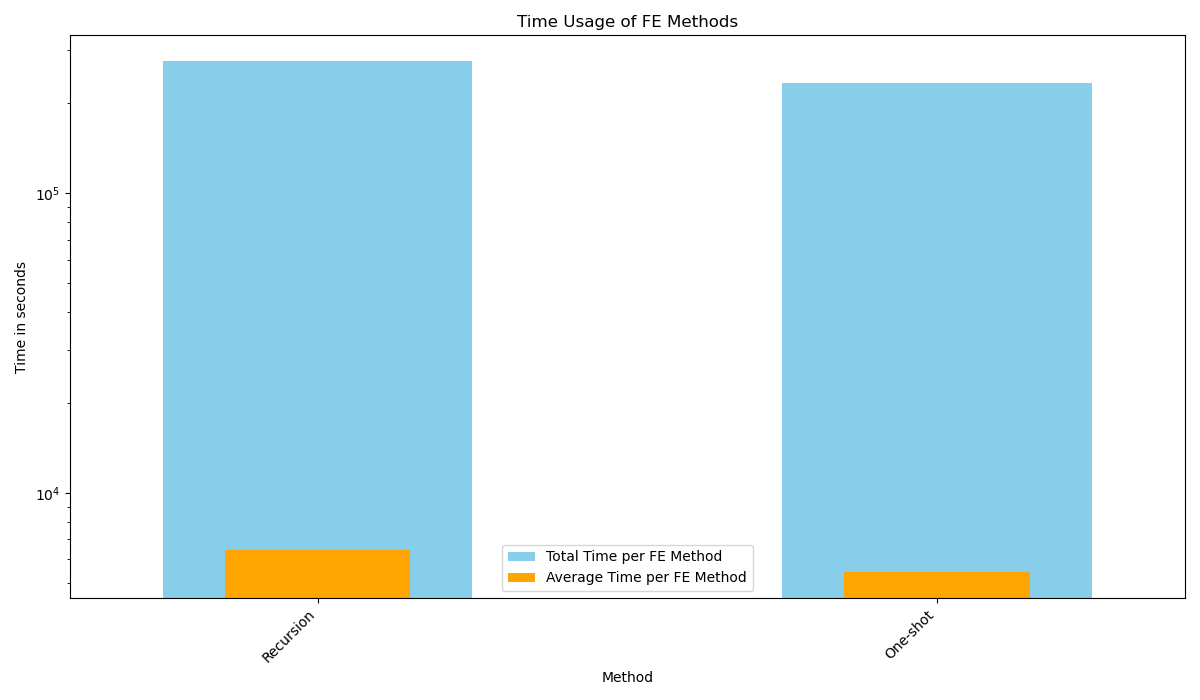
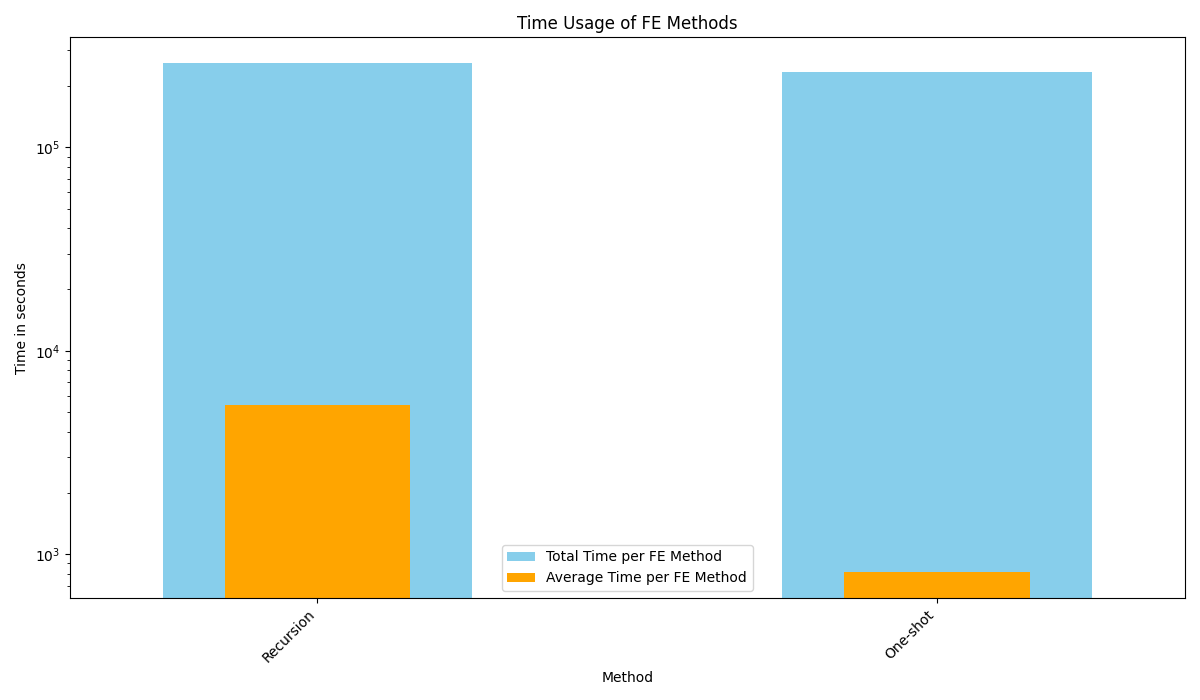
Fix time sm

diff --git a/src/Result_Analysis/time_analysis_sm/time_analysis_sm.py b/src/Result_Analysis/time_analysis_sm/time_analysis_sm.py
@@ -77,7 +77,7 @@ def get_times():
                         else:
                             continue  # skip if no valid result
                         times = pd.concat([times, new_row], ignore_index=True)
-    times = times.drop_duplicates()
+    times = times.drop_duplicates(subset=["SM", "Method", "SM - Method", "Dataset", "Task"])
     return times
 
 
@@ -168,8 +168,10 @@ def main():
     times = get_times()
 
     time_per_method = times.groupby("SM - Method")["Time"].sum().sort_values(ascending=False)
-    average_recursion = time_per_method.values[0] / times[times["SM"] == "Recursion"]["Dataset"].nunique()
-    average_best = time_per_method.values[1] / times[times["SM"] == "One-shot"]["Dataset"].nunique()
+    value_x = times[times["SM - Method"] == "Recursion, pandas"]["Dataset"].nunique()
+    average_recursion = time_per_method.values[1] / times[times["SM"] == "Recursion"]["Dataset"].nunique()
+    value = times[times["SM - Method"] == "One-shot, pandas"]["Dataset"].nunique()
+    average_best = time_per_method.values[3] / times[times["SM"] == "One-shot"]["Dataset"].nunique()
     average_time_per_method = pd.Series([average_recursion, average_best], index=["Recursion", "One-shot"])
 
     plot_time(average_time_per_method, time_per_method, "SM")
@@ -184,9 +186,9 @@ def main():
 
     time_per_method = times_filtered.groupby("SM")["Time"].sum().sort_values(ascending=False)
     time_per_method = time_per_method.reset_index("SM")
-    time_per_method.drop(index=1, inplace=True)
+    time_per_method.drop(index=0, inplace=True)
     average_openfe = time_per_method["Time"].values[1] / times[times["SM"] == "OpenFE"]["Dataset"].nunique()
-    average_time_per_method = pd.Series([average_recursion, average_openfe], index=["MetaFE", "OpenFE"])
+    average_time_per_method = pd.Series([average_best, average_openfe], index=["MetaFE", "OpenFE"])
 
     plot_time(average_time_per_method, time_per_method, "MetaFE_OpenFE")
 
